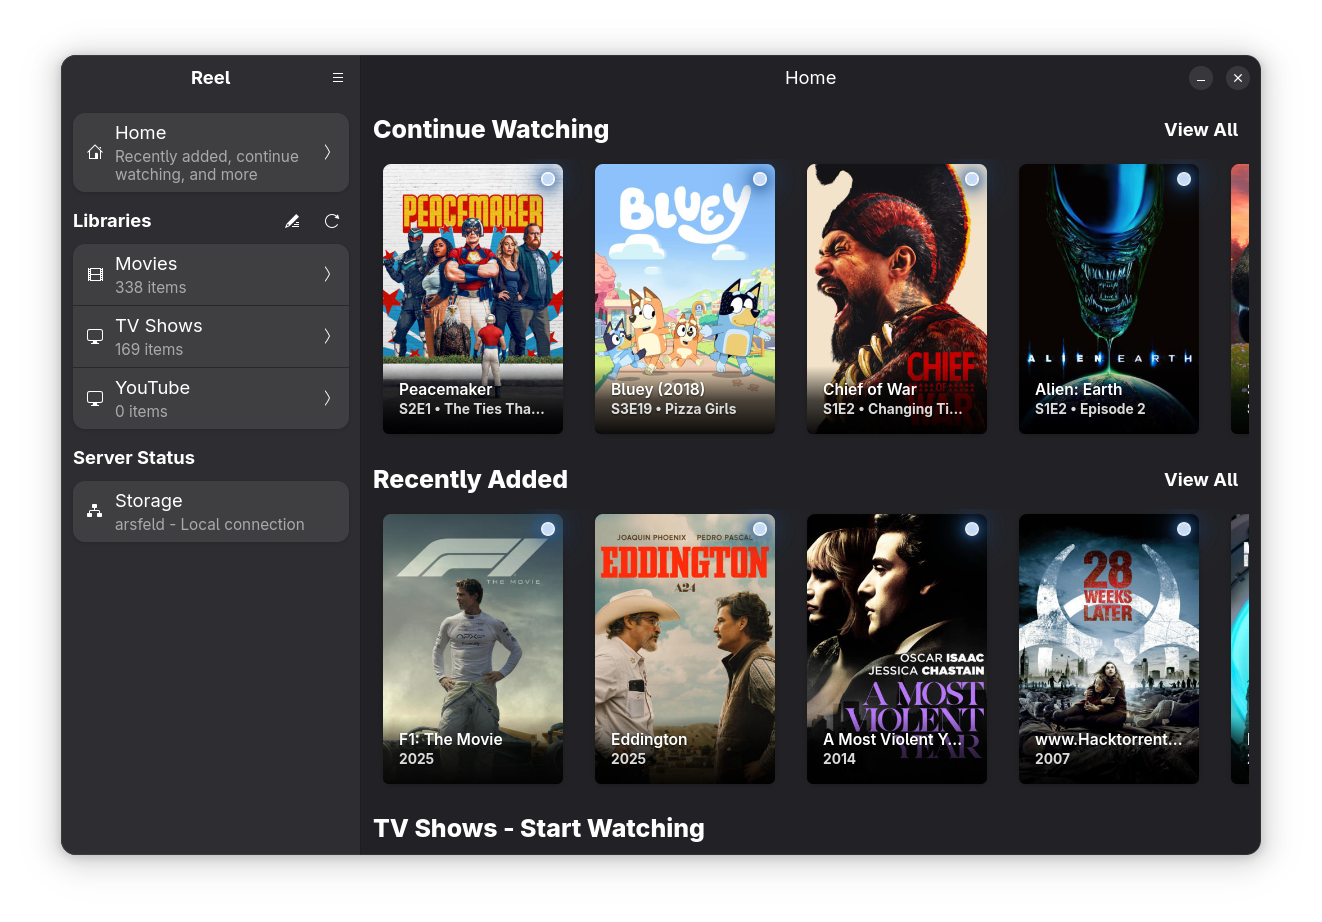
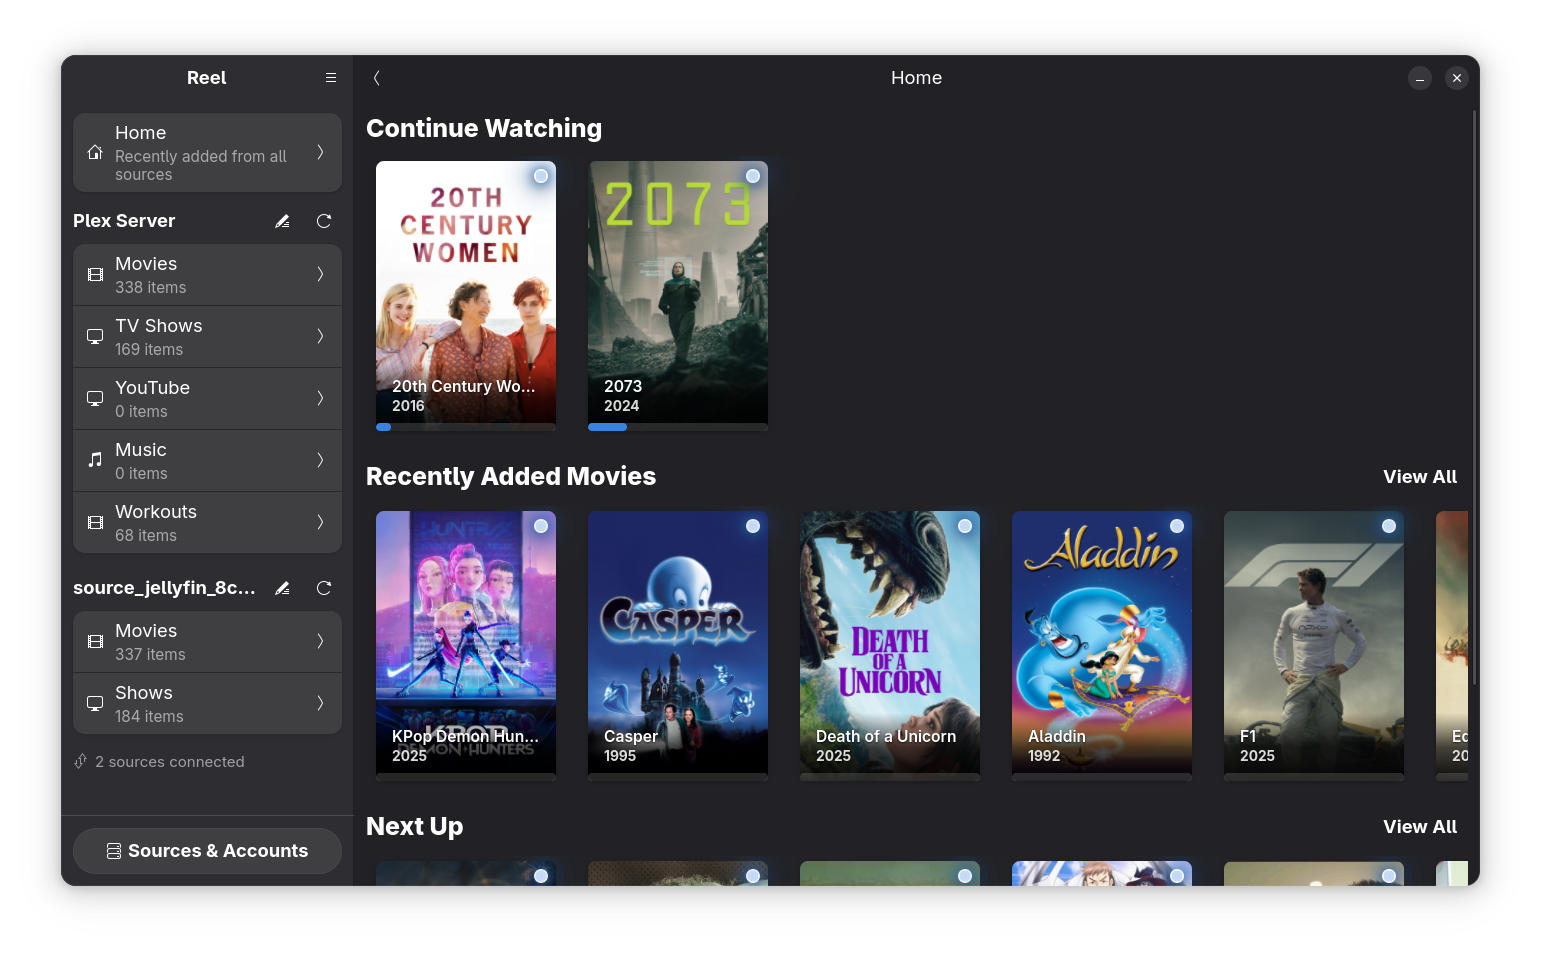
docs: Update README and TASKS for Jellyfin integration completion and enhance documentation structure

diff --git a/README.md b/README.md
@@ -4,36 +4,52 @@
   # 🎬 Reel
   
   **A modern GTK4 media player for GNOME, built with Rust for performance and reliability.**
+  
+  [![Rust](https://img.shields.io/badge/rust-1.75%2B-orange.svg?style=flat-square&logo=rust)](https://www.rust-lang.org/)
+  [![GTK4](https://img.shields.io/badge/GTK-4.0-blue.svg?style=flat-square)](https://gtk.org/)
+  [![License](https://img.shields.io/badge/license-GPLv3-green.svg?style=flat-square)](LICENSE)
+  [![Nix Flakes](https://img.shields.io/badge/nix-flakes-5277C3.svg?style=flat-square&logo=nixos&logoColor=white)](https://nixos.wiki/wiki/Flakes)
+  [![libadwaita](https://img.shields.io/badge/libadwaita-1.4-purple.svg?style=flat-square)](https://gnome.pages.gitlab.gnome.org/libadwaita/)
+  
+  <br/>
+  
+  [![Plex](https://img.shields.io/badge/Plex-✅_Supported-e5a00d.svg?style=for-the-badge&logo=plex&logoColor=white)](https://www.plex.tv/)
+  [![Jellyfin](https://img.shields.io/badge/Jellyfin-✅_Supported-00A4DC.svg?style=for-the-badge&logo=jellyfin&logoColor=white)](https://jellyfin.org/)
+  [![Local Files](https://img.shields.io/badge/Local_Files-🚧_Coming_Soon-grey.svg?style=for-the-badge)](https://github.com/arsfeld/gnome-reel)
 </div>
 
-> **⚠ Early Development**: Reel is actively being developed. Expect rough edges, missing features, and breaking changes as we work toward a stable release.
+> [!WARNING]
+> **Early Development**: Reel is actively being developed. Expect rough edges, missing features, and breaking changes as we work toward a stable release.
 
 ## What is Reel?
 
-Reel is a native Linux media player that brings your Plex (and soon Jellyfin) libraries to the GNOME desktop. Written entirely in Rust, it leverages the language's performance and memory safety to deliver a fast, reliable media experience without the overhead of web technologies.
+Reel is a native Linux media player that brings your Plex and Jellyfin libraries to the GNOME desktop. Written entirely in Rust, it leverages the language's performance and memory safety to deliver a fast, reliable media experience without the overhead of web technologies.
 
-![Reel Screenshot - Movies Library](screenshots/main-window.png)
-![Reel Screenshot - Show Details](screenshots/show-details.png)
+| Movies Library | Show Details |
+|:---:|:---:|
+| ![Reel Screenshot - Movies Library](screenshots/main-window.png) | ![Reel Screenshot - Show Details](screenshots/show-details.png) |
 
-### ✨ Key Features
+## ✨ Key Features
 
-- **🦀 Pure Rust Implementation**: Fast, memory-safe, and concurrent by design
-- **🔌 Multi-Backend Architecture**: Currently supports Plex, with Jellyfin and local files planned
-- **💾 Offline-First Design**: SQLite caching keeps your library browsable even offline
-- **🎨 Native GTK4/libadwaita**: Seamlessly integrates with modern GNOME desktops
-- **⚡ Async Everything**: Built on Tokio for responsive, non-blocking operations
-- **🎥 GStreamer Playback**: Hardware-accelerated video with comprehensive codec support
+| Feature | Description |
+|---------|-------------|
+| **🦀 Pure Rust** | Fast, memory-safe, and concurrent by design |
+| **🔌 Multi-Backend** | Supports Plex and Jellyfin, with local files planned |
+| **💾 Offline-First** | SQLite caching keeps your library browsable even offline |
+| **🎨 Native GTK4** | Seamlessly integrates with modern GNOME desktops |
+| **⚡ Async Everything** | Built on Tokio for responsive, non-blocking operations |
+| **🎥 Dual Players** | MPV (default) and GStreamer backends for maximum compatibility |
 
 ## 🚀 Getting Started
 
 This project uses Nix flakes to manage the development environment, ensuring all dependencies (including GStreamer plugins and GTK schemas) are properly configured.
 
-### Prerequisites
+### 📋 Prerequisites
 
 - Nix with flakes enabled
 - Git
 
-### Building with Nix
+### 🔨 Building with Nix
 
 ```bash
 # Clone the repository
@@ -50,7 +66,7 @@ cargo build
 cargo run
 ```
 
-### Development Commands
+### 💻 Development Commands
 
 Inside the Nix shell:
 
@@ -70,18 +86,54 @@ cargo build --release
 
 ## 📦 Installation
 
-### Nix/NixOS
+### 📥 Download Pre-built Packages
+
+Download the latest release from the [Releases page](https://github.com/arsfeld/gnome-reel/releases/latest).
+
+> [!WARNING]
+> **Pre-built packages are experimental**: These packages are automatically generated and may not be thoroughly tested. If you encounter issues, consider building from source using the Nix development environment.
+
+#### AppImage (Universal - Recommended)
+```bash
+# Download the AppImage
+wget https://github.com/arsfeld/gnome-reel/releases/latest/download/reel-v0.3.0-x86_64.AppImage
+chmod +x reel-*.AppImage
+./reel-*.AppImage
+```
+
+#### Debian/Ubuntu (.deb)
+```bash
+# Download and install the .deb package
+wget https://github.com/arsfeld/gnome-reel/releases/latest/download/reel-v0.3.0-amd64.deb
+sudo dpkg -i reel-*.deb
+sudo apt-get install -f  # Install dependencies if needed
+```
+
+#### Fedora/RHEL/openSUSE (.rpm)
+```bash
+# Download and install the .rpm package
+wget https://github.com/arsfeld/gnome-reel/releases/latest/download/reel-v0.3.0-x86_64.rpm
+sudo dnf install ./reel-*.rpm
+# or for older systems:
+sudo rpm -i reel-*.rpm
+```
+
+### ❄ Nix/NixOS
 
 ```bash
 # Run directly with Nix flakes
 nix run github:arsfeld/gnome-reel
 ```
 
-### Flatpak
+### 📦 Flatpak
 
-🚧 **Coming Soon** - Flatpak packaging is planned to make Reel available across all Linux distributions.
+> [!NOTE]
+> 🚧 **Coming Soon** - Flatpak packaging is planned to make Reel available across all Linux distributions.
 
 ## 🏗 Architecture
+
+<details>
+<summary><b>Click to see architecture diagram</b></summary>
 
 Reel follows Rust best practices with a clean separation of concerns:
 
@@ -97,18 +149,26 @@ Backend Trait (Generic MediaBackend interface)
 Implementations (Plex, Jellyfin, Local)
 ```
 
+</details>
+
 The entire codebase leverages Rust's type system and ownership model to prevent common bugs at compile time, while async/await enables efficient handling of network requests and media operations.
 
 ## 📊 Project Status
 
-See [TASKS.md](TASKS.md) for the detailed development roadmap.
+<p align="center">
+  <a href="TASKS.md">
+    <img src="https://img.shields.io/badge/📋_View_Full_Roadmap-TASKS.md-blue?style=for-the-badge" alt="View Roadmap"/>
+  </a>
+</p>
 
 ### ✅ Completed Features
 - **Authentication & Server Management**
   - Plex OAuth authentication with PIN-based flow
+  - Jellyfin username/password authentication
   - Automatic server discovery and connection
-  - Multi-backend architecture supporting Plex, Jellyfin (planned), and local files (planned)
+  - Multi-backend architecture supporting Plex and Jellyfin
   - Persistent authentication and server preferences
+  - Multiple backends shown simultaneously (all libraries displayed together)
 
 - **Media Browsing & Playback**
   - Complete movie and TV show libraries with grid views
@@ -118,6 +178,7 @@ See [TASKS.md](TASKS.md) for the detailed development roadmap.
   - Immersive player with auto-hiding controls
   - Audio/subtitle track selection
   - Watch status tracking and progress indicators
+  - Playback position syncing (resume from last position)
   - Continue watching and recently added sections
 
 - **Performance & Architecture**
@@ -138,11 +199,28 @@ See [TASKS.md](TASKS.md) for the detailed development roadmap.
   - **Advanced player controls** - Keyboard shortcuts, window dragging, time display modes
 
 ### 🔧 In Development
-- Playback position syncing to server
-- Advanced filtering (genre, year, rating)
-- Search functionality
-- Music and photo library support
-- Settings management with GSettings
+- **Known Issues to Fix**
+  - Homepage sections randomly replace each other when multiple backends are enabled
+  - Horizontal scrolling on homepage doesn't load images
+  - GStreamer subtitle color artifacts
+
+- **Search & Filtering**
+  - Search UI implementation (backend support varies)
+  - Advanced filtering (genre, year, rating, resolution)
+  - Collections and playlists support
+
+- **Media Information**
+  - Cast and crew information display UI
+  - Media badges (4K, HDR, etc.)
+  - Enhanced metadata display
+
+- **Additional Features**
+  - Local file library scanning
+  - Music and photo library support
+  - Settings management with GSettings
+  - Offline download and playback
+  - Metadata provider integration
+  - Skip intro/credits improvements
 
 
 ## 🛠 Tech Stack
@@ -157,11 +235,17 @@ See [TASKS.md](TASKS.md) for the detailed development roadmap.
 
 ## 🤝 Contributing
 
-Contributions are welcome! Since this is an early-stage Rust project, please check [TASKS.md](TASKS.md) for areas needing work. The codebase follows standard Rust conventions - run `cargo fmt` and `cargo clippy` before submitting PRs.
+Contributions are welcome! Since this is an early-stage Rust project, please check [TASKS.md](TASKS.md) for areas needing work.
+
+### Before Submitting a PR:
+- Run `cargo fmt` to format your code
+- Run `cargo clippy` to check for common issues
+- Ensure all tests pass with `cargo test`
+- Update documentation if needed
 
 ## 📄 License
 
-[License details to be determined]
+This project is licensed under the GNU General Public License v3.0 - see the [LICENSE](LICENSE) file for details.
 
 ## 🙏 Acknowledgments
 

diff --git a/TASKS.md b/TASKS.md
@@ -120,13 +120,14 @@
 - [ ] Watchlist/Up Next
 
 ### 🌐 Additional Backends
-- [x] **Jellyfin Integration** (January 2025)
+- [x] **Jellyfin Integration** (January 2025) ✅ COMPLETE
   - [x] Full authentication flow with auth dialog
   - [x] Backend management in preferences
   - [x] Seamless backend switching
   - [x] Cast/crew info (implemented, depends on server metadata)
   - [x] Watch status retrieval (fully functional)
   - [x] Chapter markers (MediaSegments API, requires server plugin)
+  - [x] Playback position sync (resume from last position)
 - [ ] Local file support (UI exists, backend not implemented)
 - [ ] Metadata provider integration
 
@@ -282,6 +283,7 @@
 ## 🎯 Immediate Priority Tasks (Now that Auth is Done)
 
 ### 1⃣ Critical Bug Fixes
+- [ ] **Homepage multi-backend conflict** - Sections from different backends randomly replace each other
 - [ ] **Homepage horizontal scrolling** - Images don't load when scrolling
 - [ ] **GStreamer subtitle colorspace** - Fix color artifacts or disable subtitles
 - [ ] **Navigation history** - Extend beyond just player page
@@ -341,6 +343,7 @@
 ## Known Issues
 
 ### Critical Issues
+- [ ] **Homepage with multiple backends**: When multiple backends are enabled, homepage sections randomly replace each other instead of showing all backends' content
 - [ ] **Homepage horizontal scrolling**: Images don't load when scrolling horizontally
 - [ ] **GStreamer subtitles**: Color artifacts when subtitles displayed (use MPV instead)
 - [x] **Jellyfin sync failure**: ~~Connects successfully but fails to fetch movie/show items during sync~~ FIXED - Added #[serde(default)] to handle missing UserData fields
@@ -357,14 +360,14 @@
 
 ### Backend Implementations
 
-#### Jellyfin Backend (Mostly Complete - January 2025)
+#### Jellyfin Backend ✅ COMPLETE (January 2025)
 - [x] **Core API Implementation** - Complete
   - [x] Authentication (username/password)
   - [x] Library fetching
   - [x] Movie and show retrieval
   - [x] Episode fetching
   - [x] Stream URL generation
-  - [x] Playback progress tracking
+  - [x] Playback progress tracking ✅
   - [x] Search functionality
   - [x] Home sections
 - [x] **UI Integration**:
